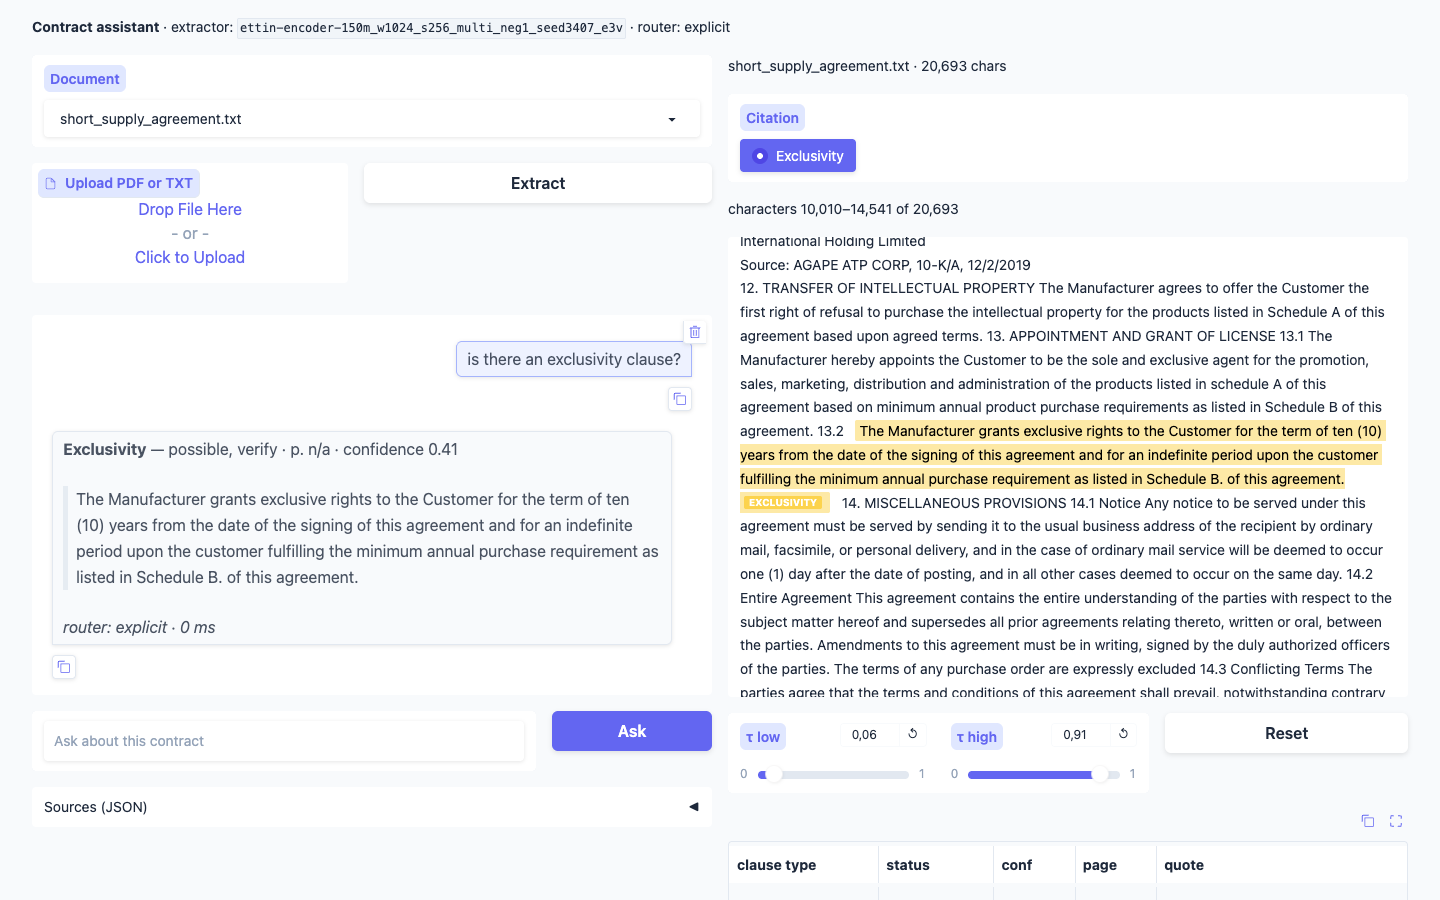
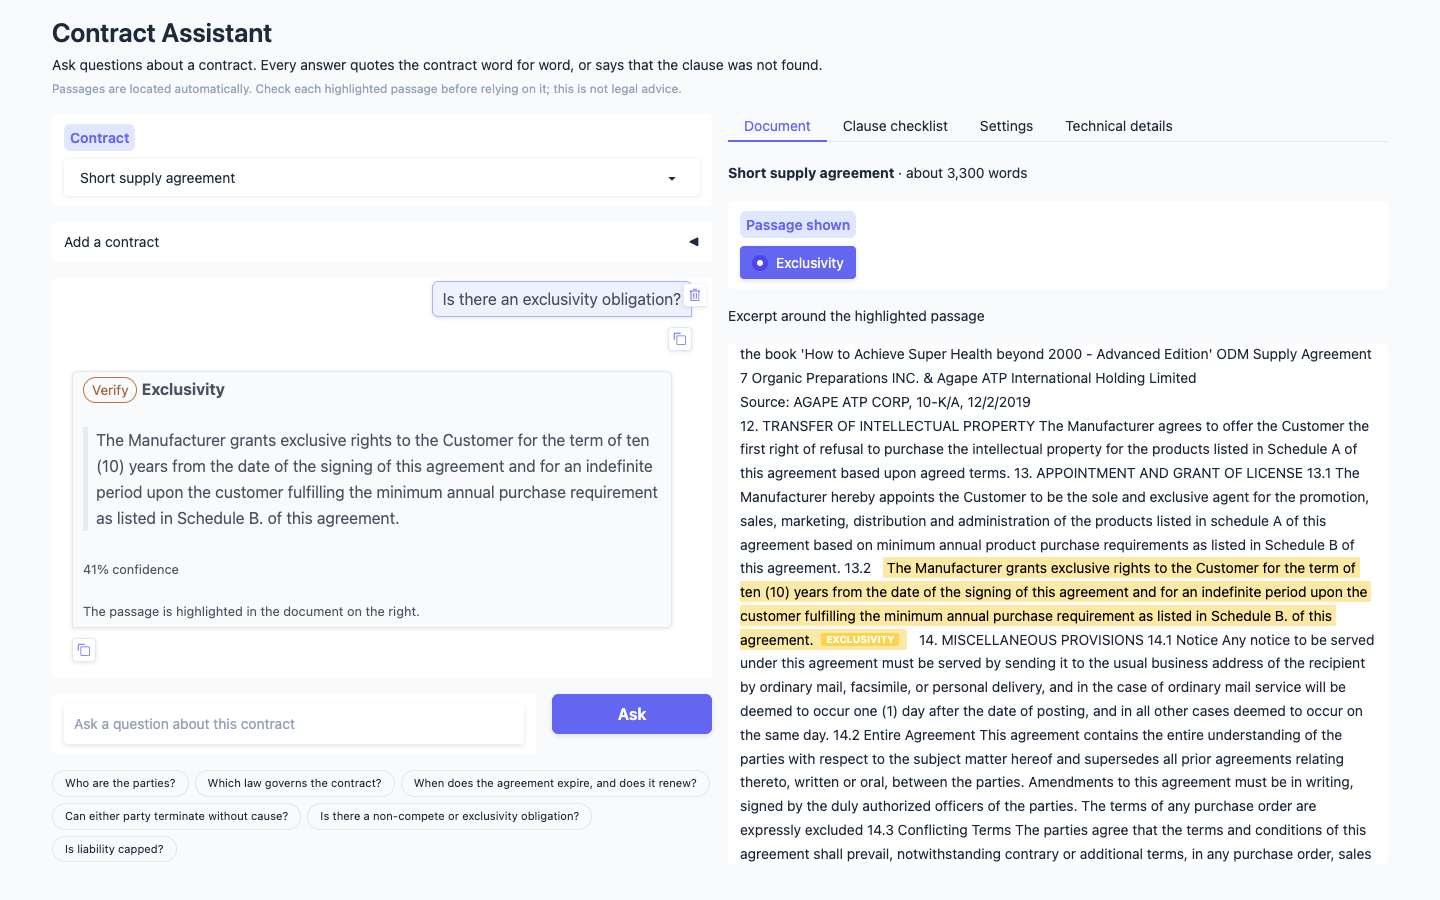
Retake the screenshots of the redesigned app
Taken with the LLM router on the short demo contract.

diff --git a/README.md b/README.md
@@ -115,15 +115,19 @@ Three answers on the short demo contract:
 **Source Code Escrow** — not found (checked; best candidate 0.00)
 ```
 
-The demo documents are plain text, so there are no page numbers (`p. n/a`); a PDF gives
-the page.
+That is the command-line template. The demo documents are plain text, so there are no page
+numbers (`p. n/a`); a PDF gives the page.
+
+The web app labels the same tiers Found, Verify and Not found, shows each passage
+highlighted in the contract, and lists all 41 clause types by topic in a clause checklist.
+The thresholds and the model details are in their own tabs.
 
 | | |
 |---|---|
-| ![A found answer](docs/screenshots/found.png) | ![A possible, verify answer](docs/screenshots/check.png) |
-| A found answer with its quote and page. | A tier that asks the reader to verify. |
-| ![A not found answer](docs/screenshots/not_found.png) | ![A question that maps to several clause types](docs/screenshots/compound.png) |
-| An explicit not found. | One question routed to several clause types. |
+| ![A found answer](docs/screenshots/found.png) | ![An answer to verify](docs/screenshots/check.png) |
+| A found answer, with the passage highlighted in the contract. | A passage the reader should verify. |
+| ![A not found answer](docs/screenshots/not_found.png) | ![A question about two clause types](docs/screenshots/compound.png) |
+| An explicit not found: the clause was checked. | One question answered for two clause types. |
 
 ## Demo documents
 
